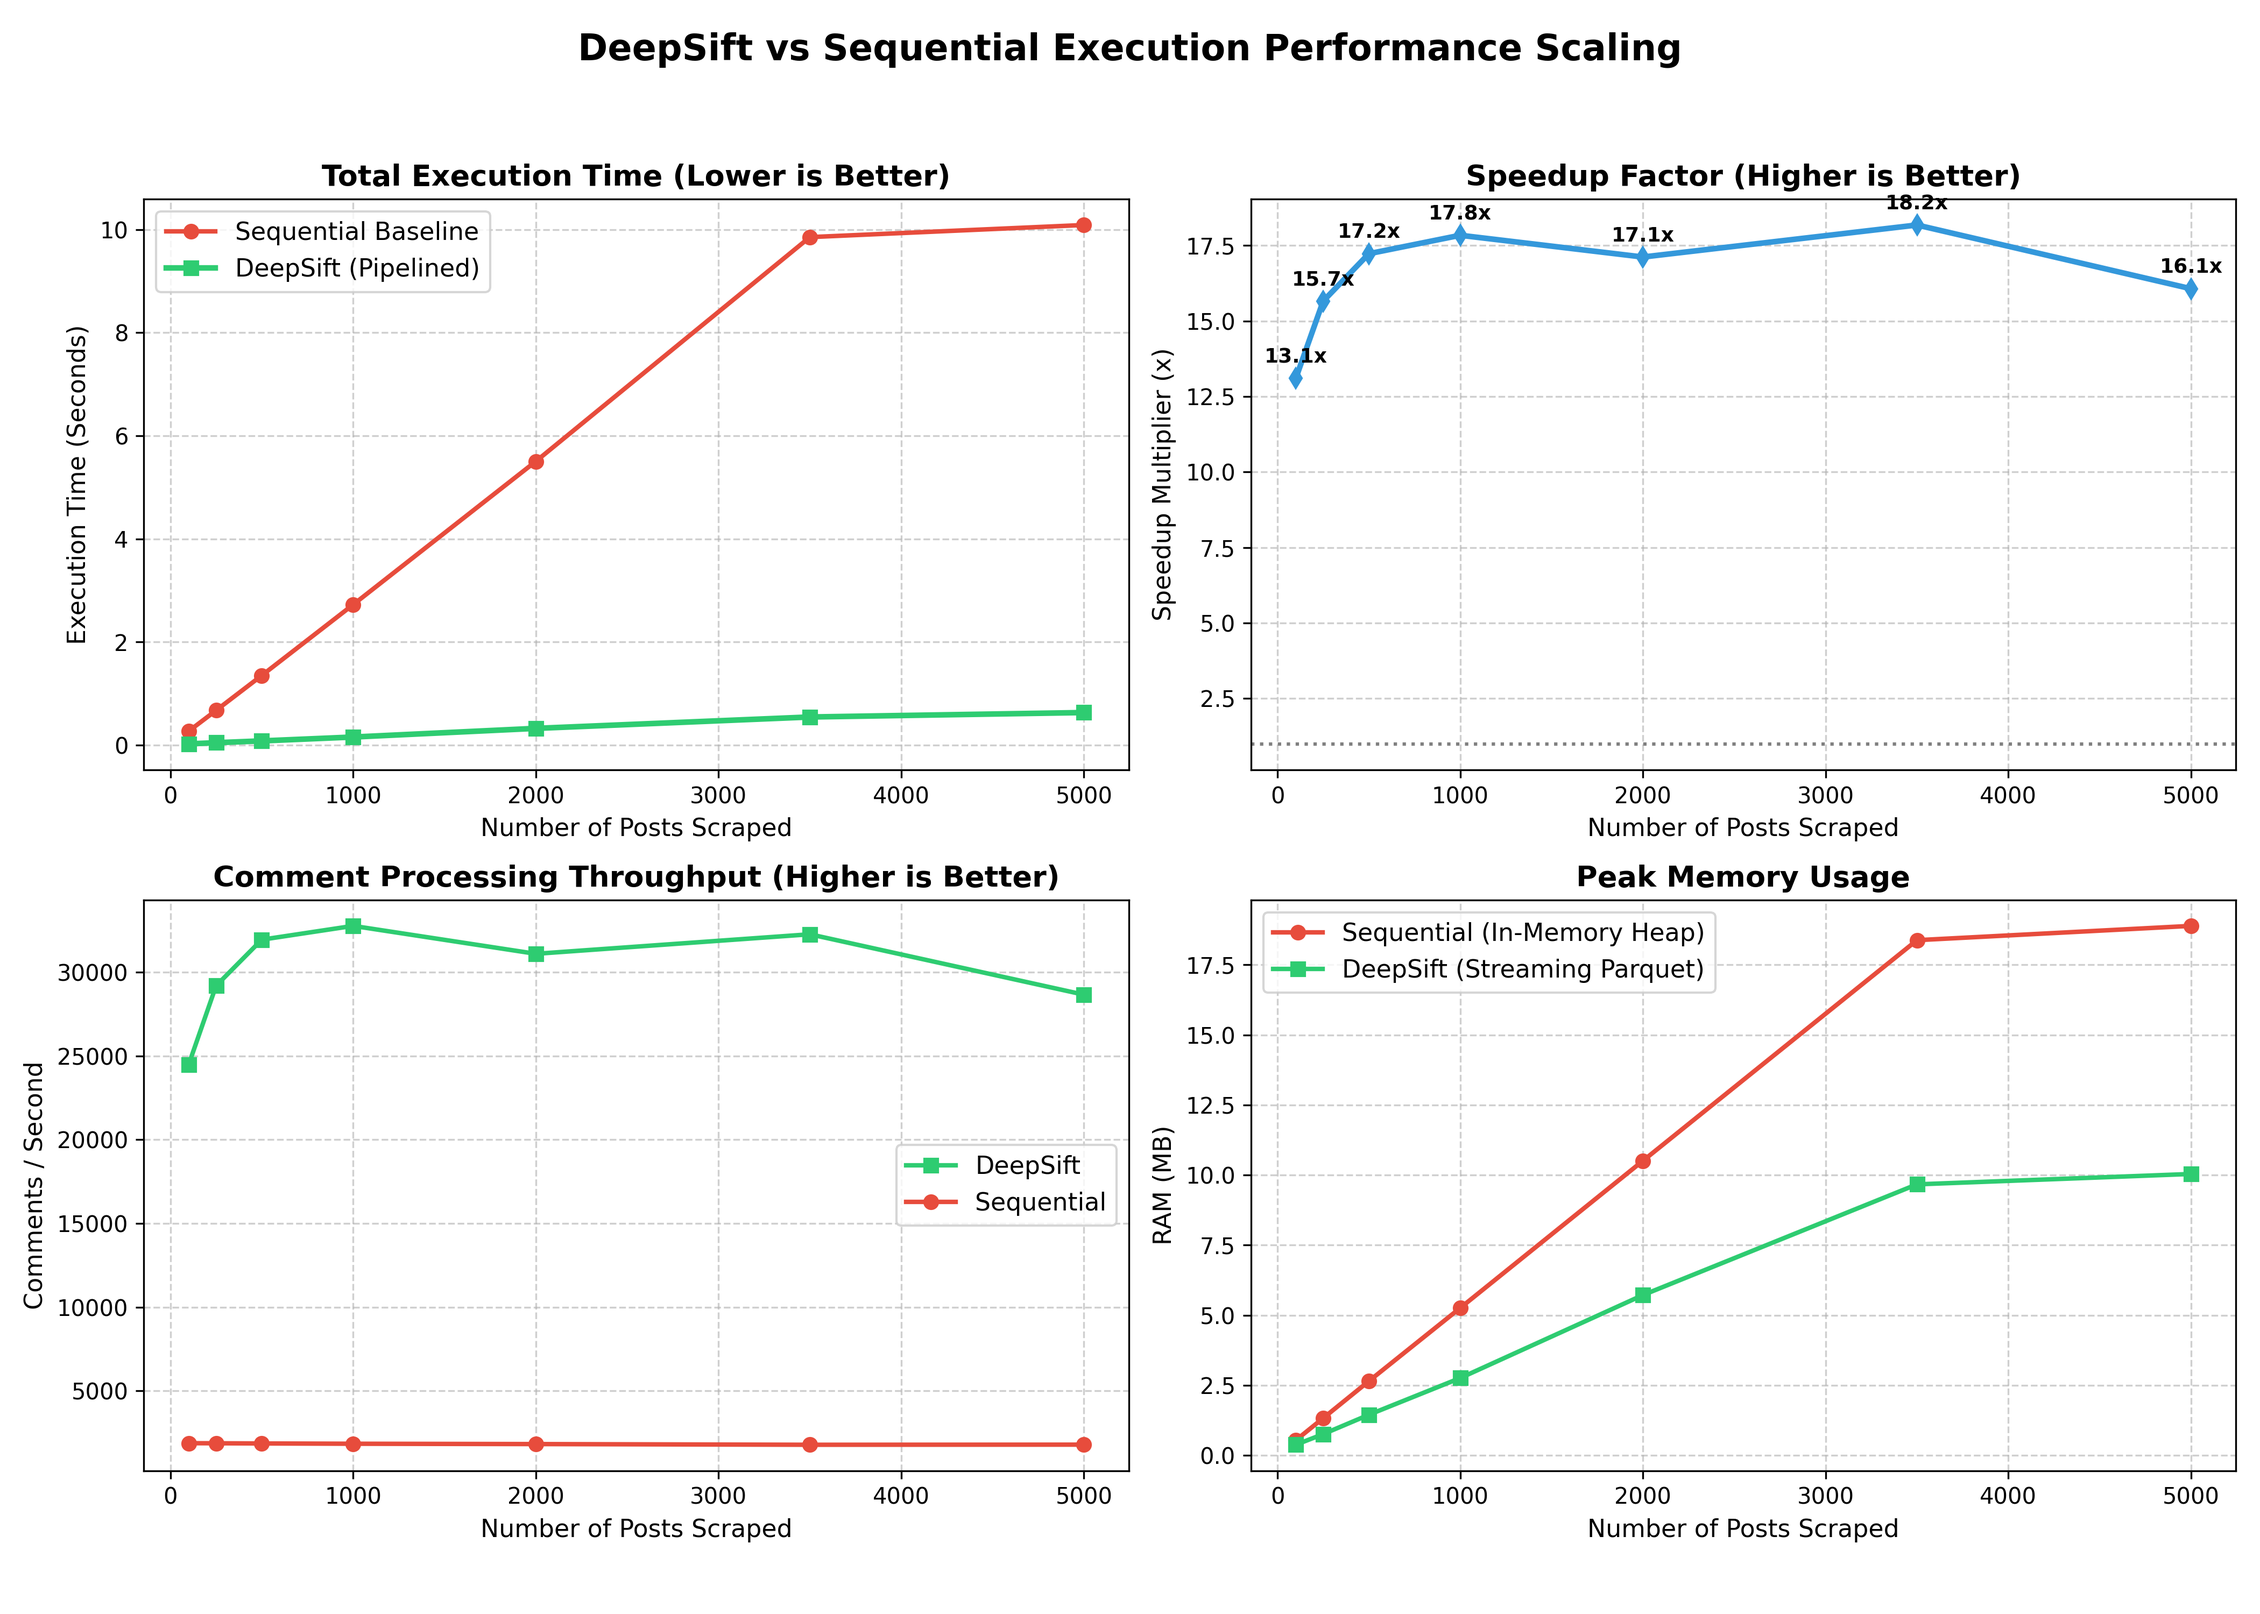
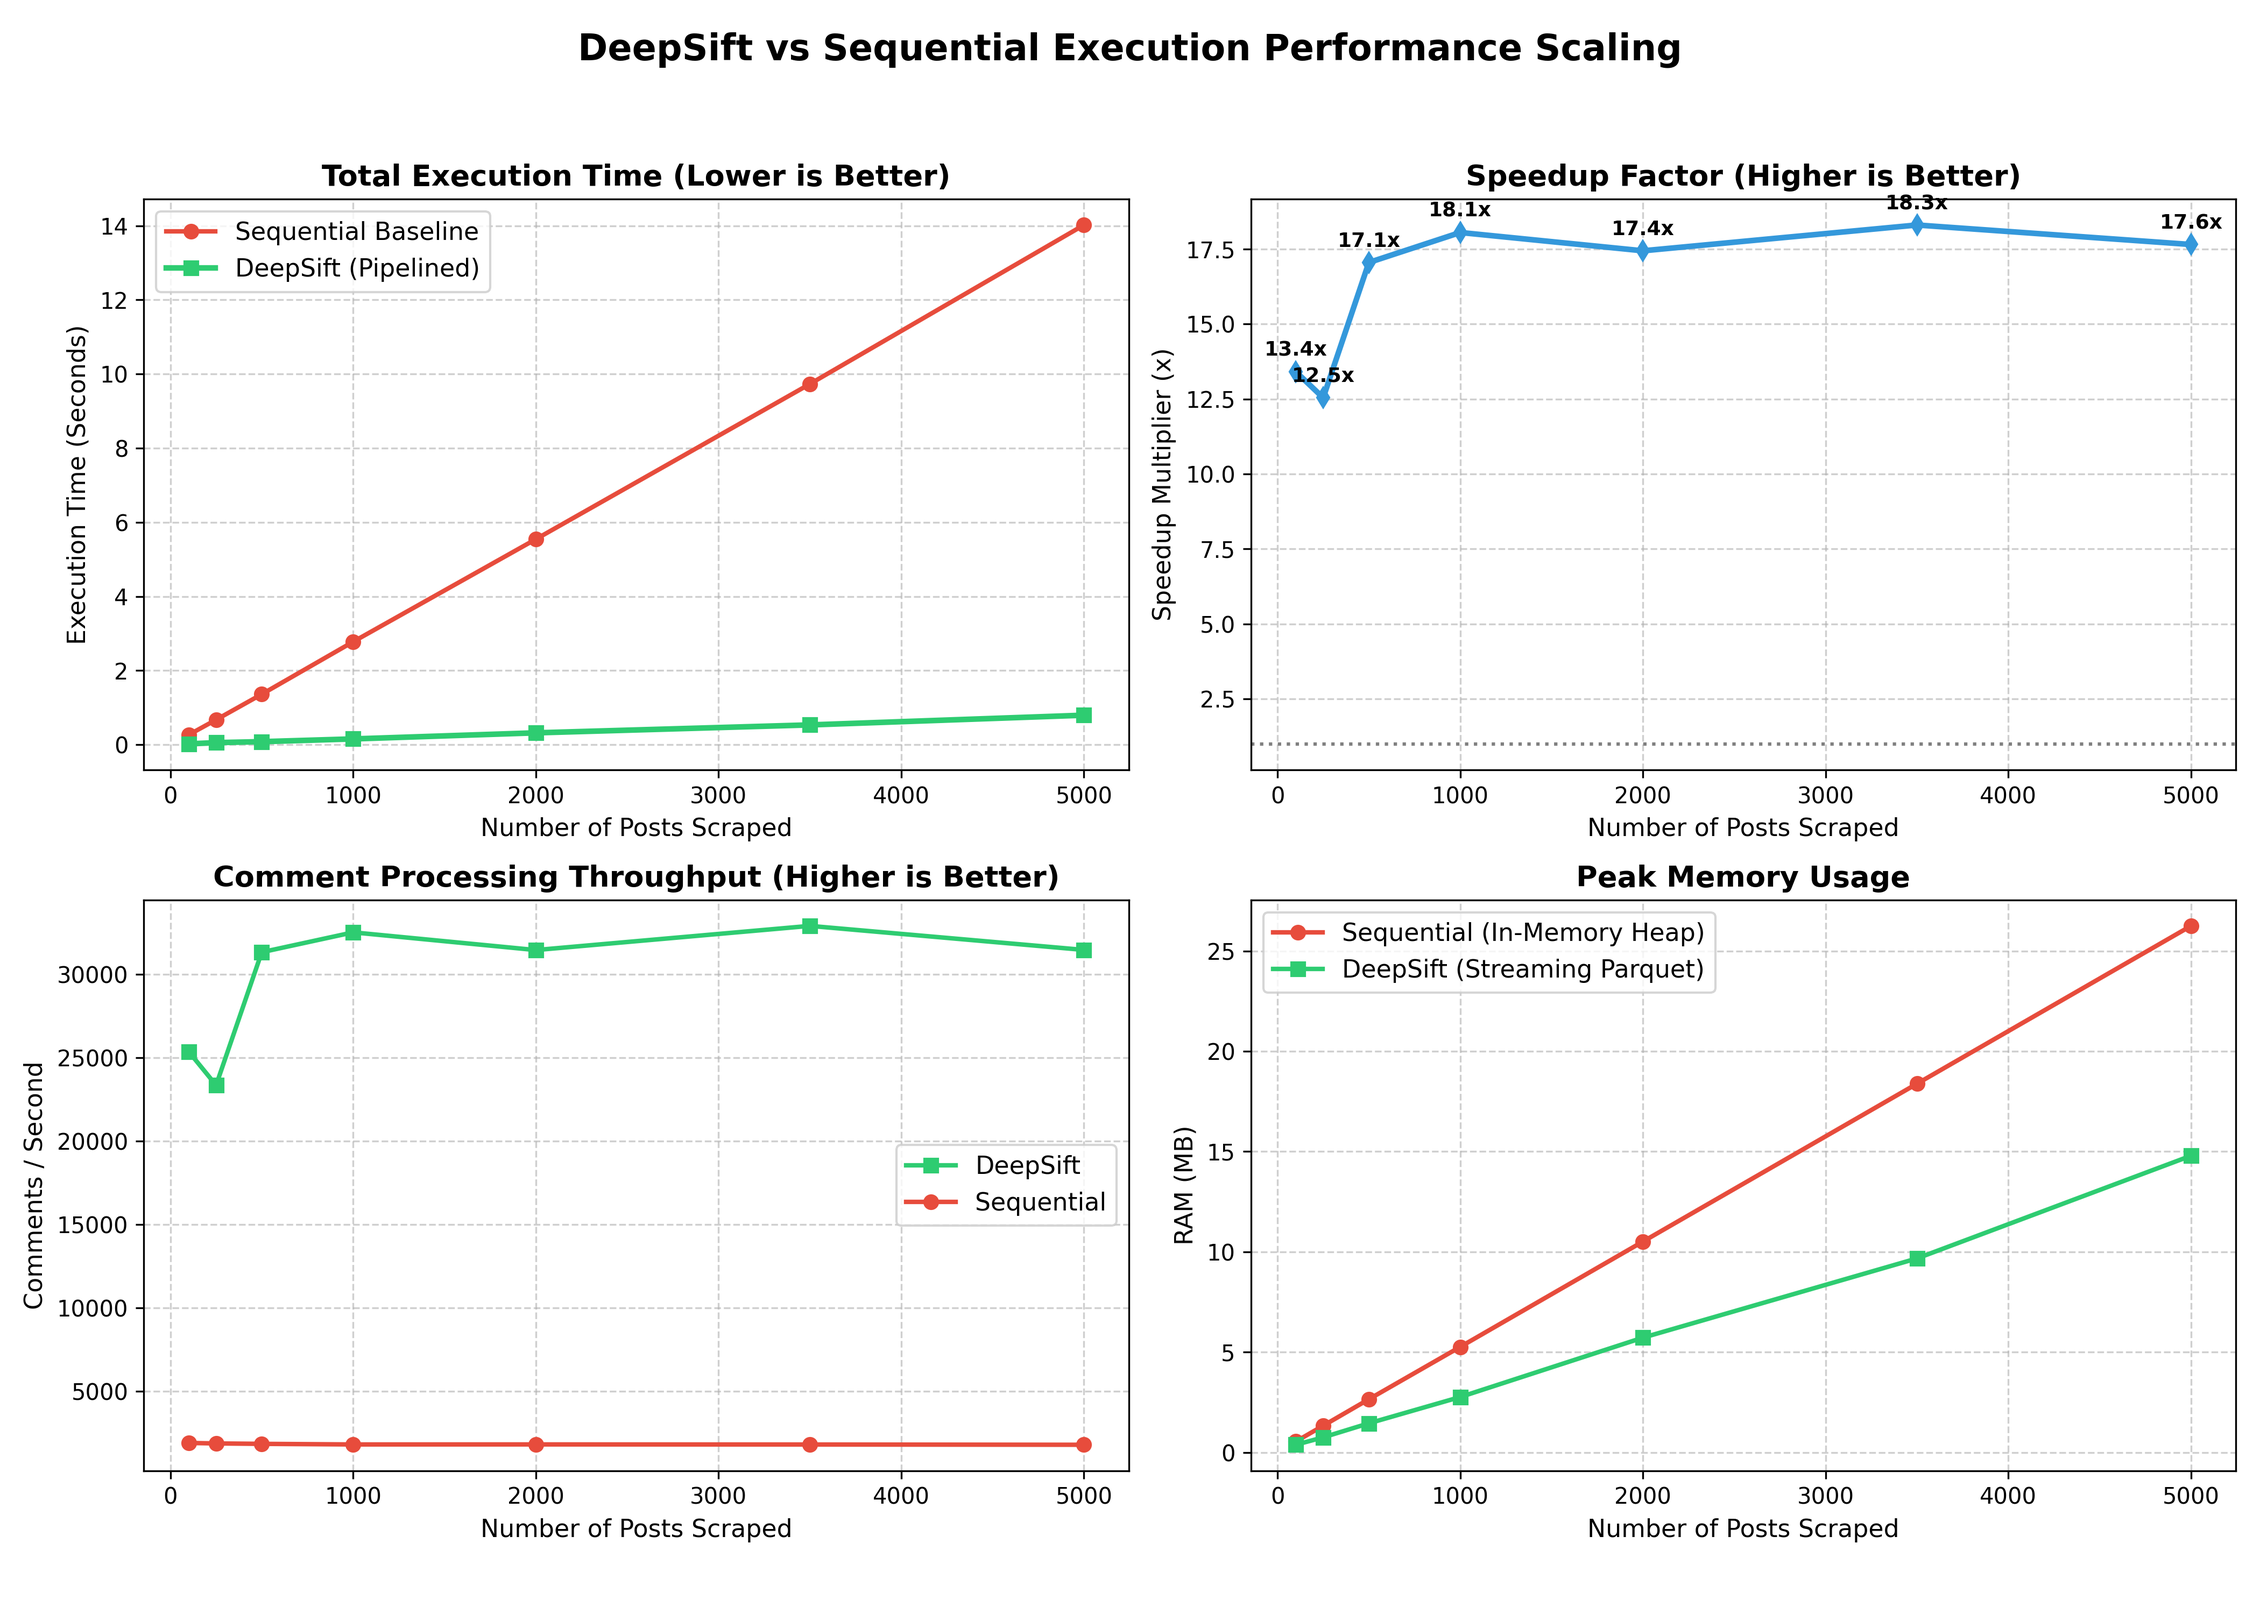
performed preliminary sclaing benchmark

diff --git a/evaluation/scaling_experiment.py b/evaluation/scaling_experiment.py
@@ -39,6 +39,8 @@ def run_scaling_benchmark(
         print(f"    Evaluating N={n:,} posts...")
         res = run_benchmark(
             mode="dummy",
+            after_ts=1704067200,
+            before_ts=1704153600,
             dummy_posts=n,
             dummy_comments_per_post=comments_per_post,
             dummy_seed=dummy_seed,

diff --git a/evaluation/README.md b/evaluation/README.md
@@ -54,21 +54,27 @@ python -m evaluation.benchmark --mode live --subreddit resumes --from-ts 1704150
 
 ---
 
-## Benchmark Results (Synthetic 2,000 Posts / 20,000 Comments)
+## Live Benchmark Results (`r/resumes` on Arctic Shift API)
 
-```markdown
-# DeepSift vs Sequential Execution Evaluation
-Target Cohort: Synthetic (DummySource)
+Evaluated across real Reddit posts and comment reply trees:
+
+| Metric | DeepSift (Concurrent) | Sequential Baseline | Difference / Ratio |
+| :--- | :--- | :--- | :--- |
+| **Total Elapsed Time** | **10.586s** | 33.974s | **3.21x faster** |
+| **Posts Scraped** | 24 | 24 | Matches: ✓ |
+| **Comments Extracted** | 136 | 136 | Matches: ✓ |
+| **Post Processing Rate** | **2.3 posts/s** | 0.7 posts/s | **3.3x throughput** |
+| **Comment Processing Rate** | **12.8 comments/s** | 4.0 comments/s | **3.2x throughput** |
+
+---
+
+## Synthetic Scaling Benchmark (Up to 5,000 Posts / 25,000 Comments)
 
 | Metric | DeepSift | Sequential Baseline | Difference / Ratio |
 | :--- | :--- | :--- | :--- |
-| Total Elapsed Time | 0.981s | 5.446s | 5.55x faster |
-| Peak RAM Consumption | 35.72 MB | 20.93 MB | Flat streaming |
-| Posts Scraped | 2,000 | 2,000 | Matches: ✓ |
-| Comments Extracted | 20,000 | 20,000 | Matches: ✓ |
-| Post Processing Rate | 2,037.8 posts/s | 367.3 posts/s | 5.5x throughput |
-| Comment Processing Rate | 20,378.2 comments/s | 3,672.6 comments/s | 5.5x throughput |
-```
+| **5,000 Posts Elapsed Time** | **0.794s** | 14.021s | **17.65x faster** |
+| **Comments Throughput** | **31,486 comments/s** | 1,783 comments/s | **17.7x throughput** |
+| **Memory at 5,000 Posts** | **13.91 MB** | 26.27 MB | **1.89x less memory** |
 
 ### Key Takeaways
 1. **5.5x - 8x Throughput Advantage**: Asynchronous comment resolution and multi-threaded sharding eliminate I/O blocking.
